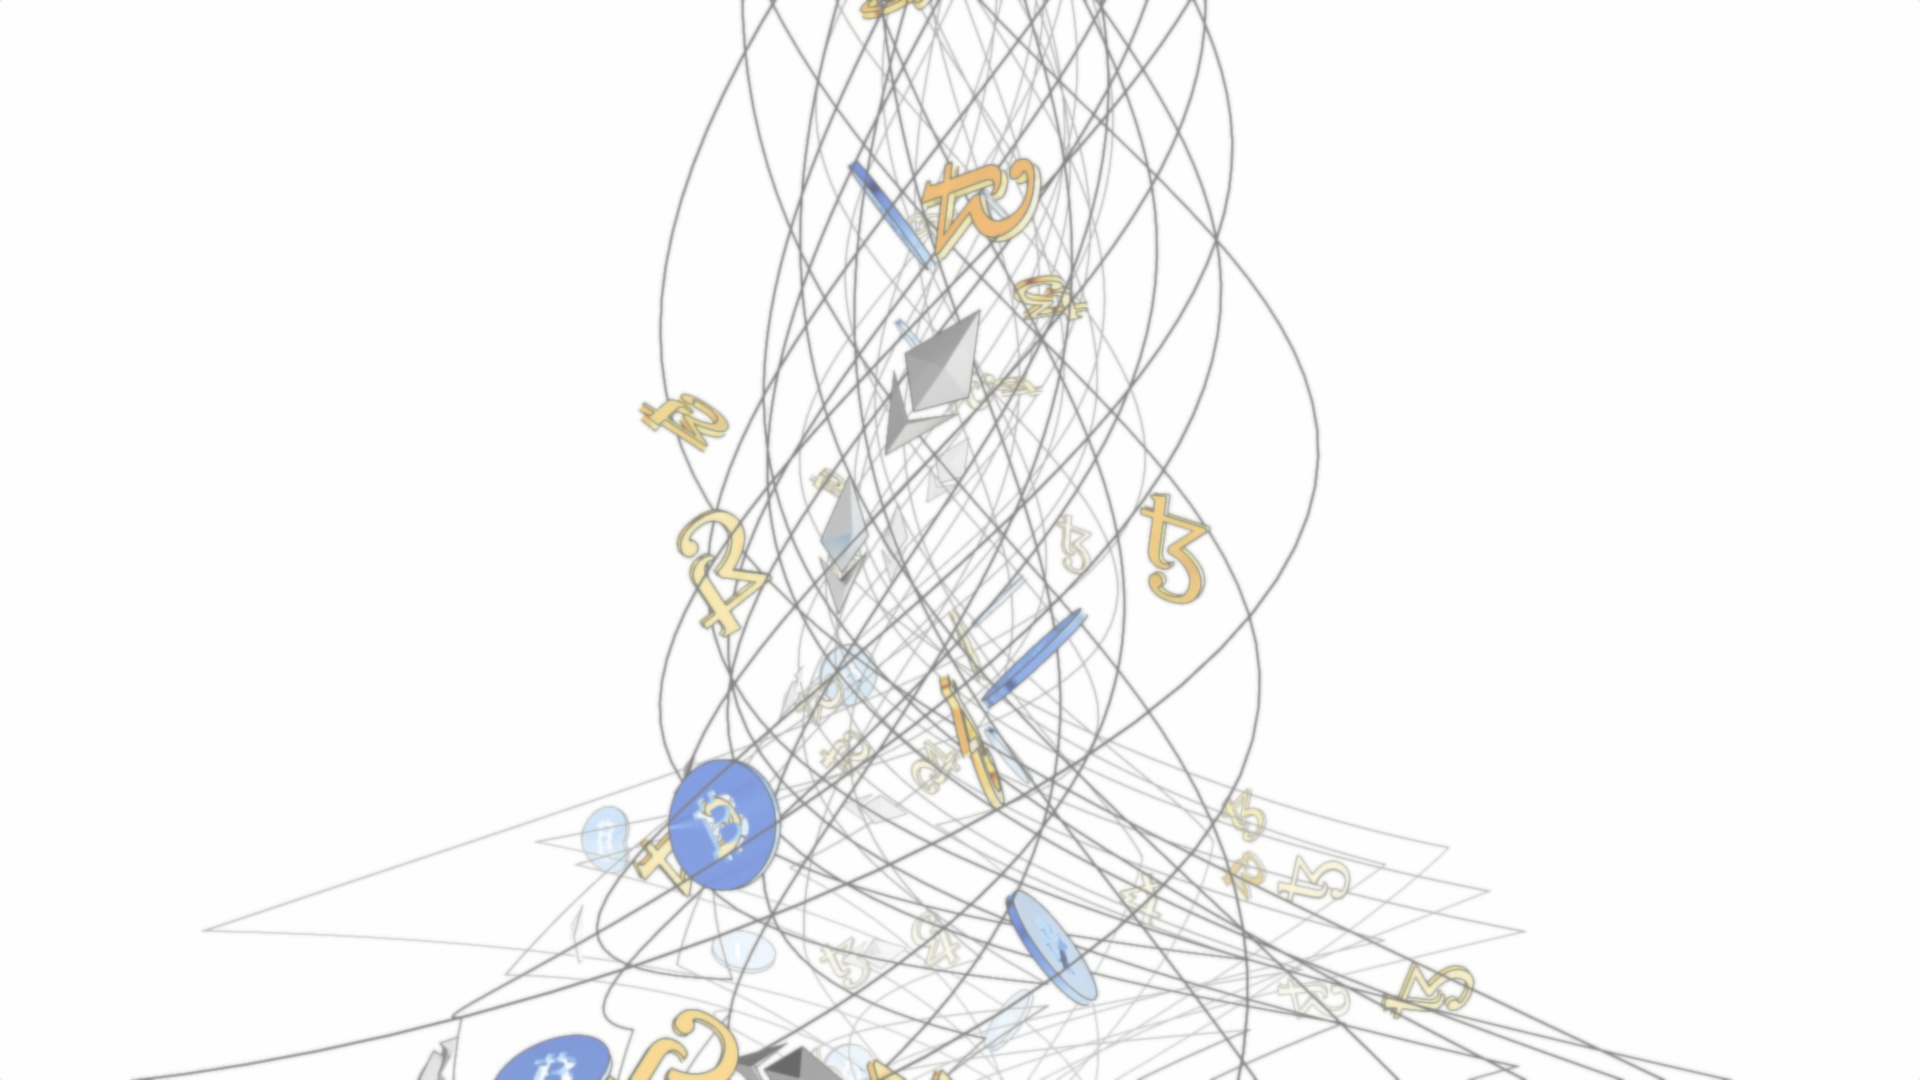
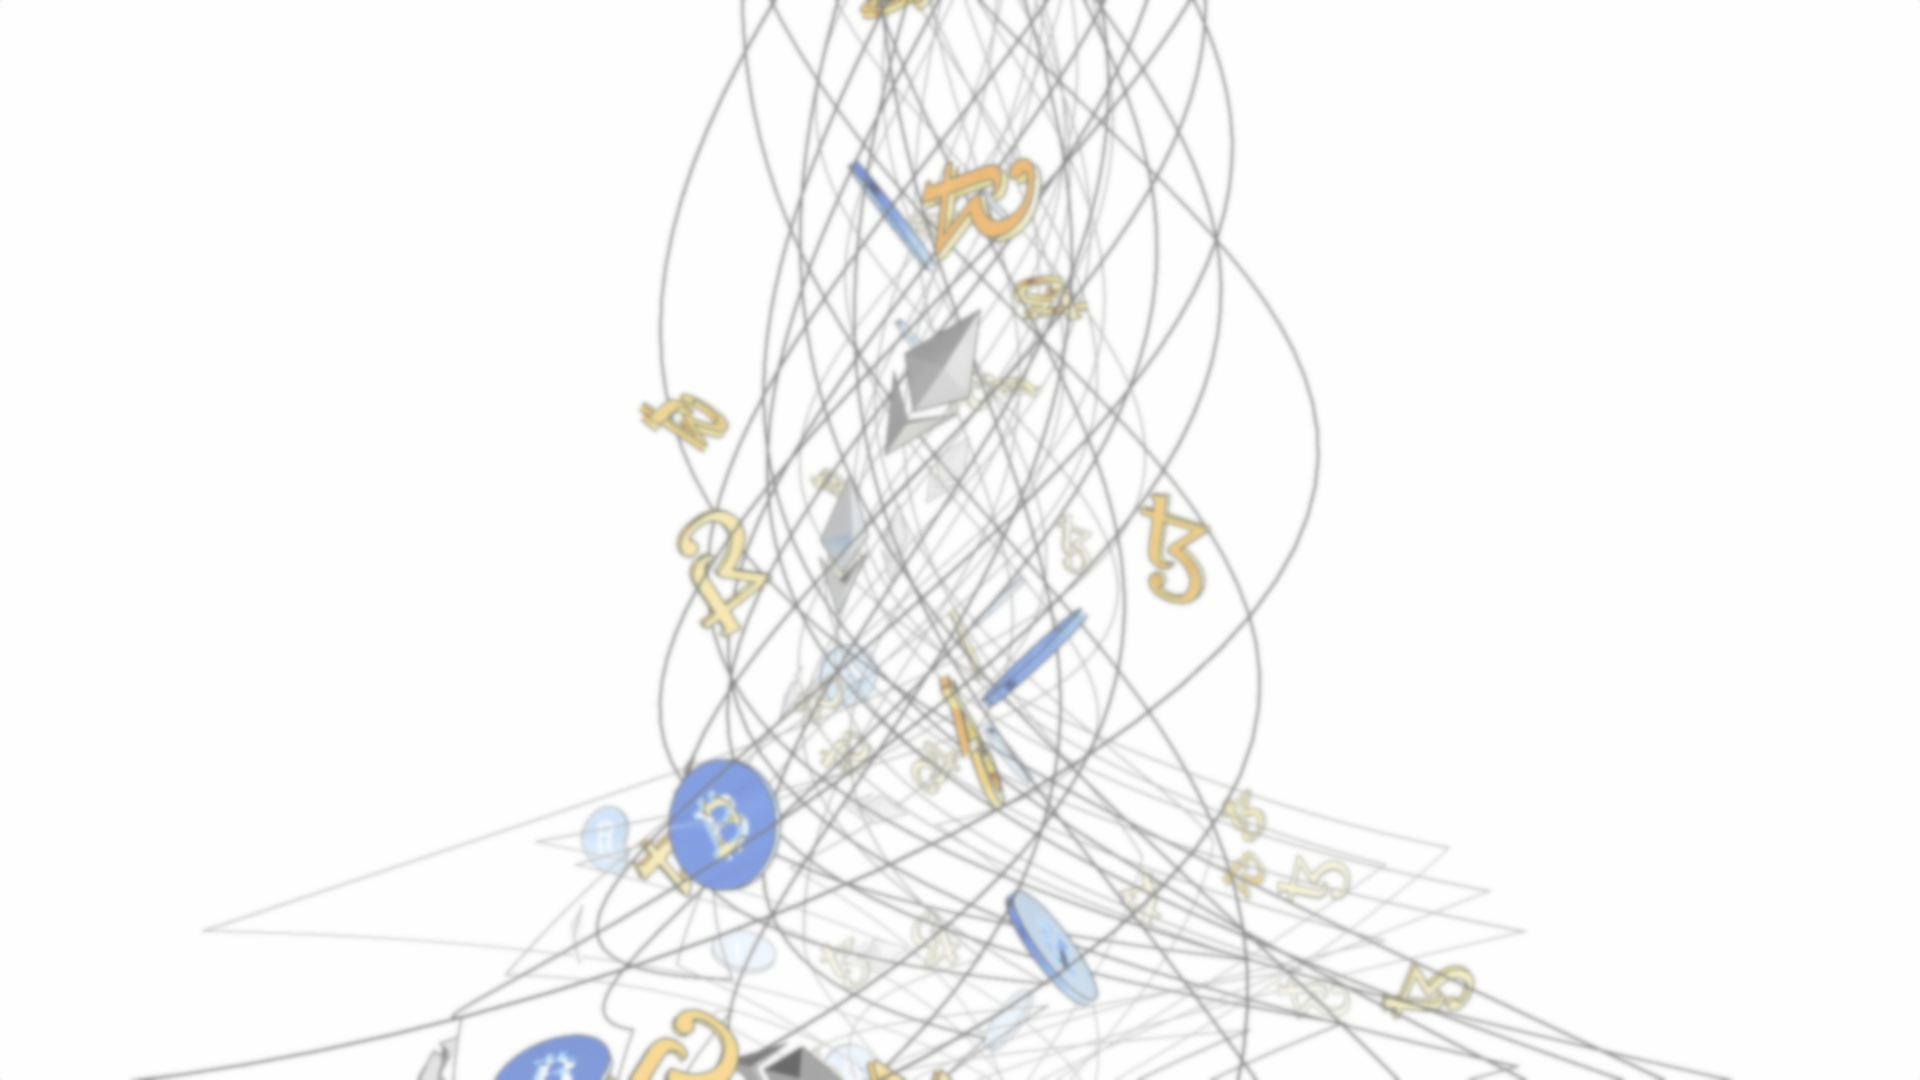
Blur home image
blue home image and add margin to subtitles

diff --git a/src/components/Explore.jsx b/src/components/Explore.jsx
@@ -94,7 +94,7 @@ function Explore(){
                     sx={{
                         fontWeight: "600",
                         maxWidth: "lg",
-                        mb: 10
+                        mb: 5
                     }}
                 >
                     Dive into the CryptoVortex: 
@@ -161,7 +161,7 @@ function Explore(){
                 <Typography
                     variant="h4"
                     fontWeight="600"
-                    mb={7}
+                    my={5}
                     sx={{textAlign: 'center'}}
                 >Trending 
                 
@@ -247,7 +247,7 @@ function Explore(){
                 <Typography
                     variant="h4"
                     fontWeight="600"
-                    mb={3}
+                    my={5}
                 > A crypto exchange you can trust
                 </Typography>
 
